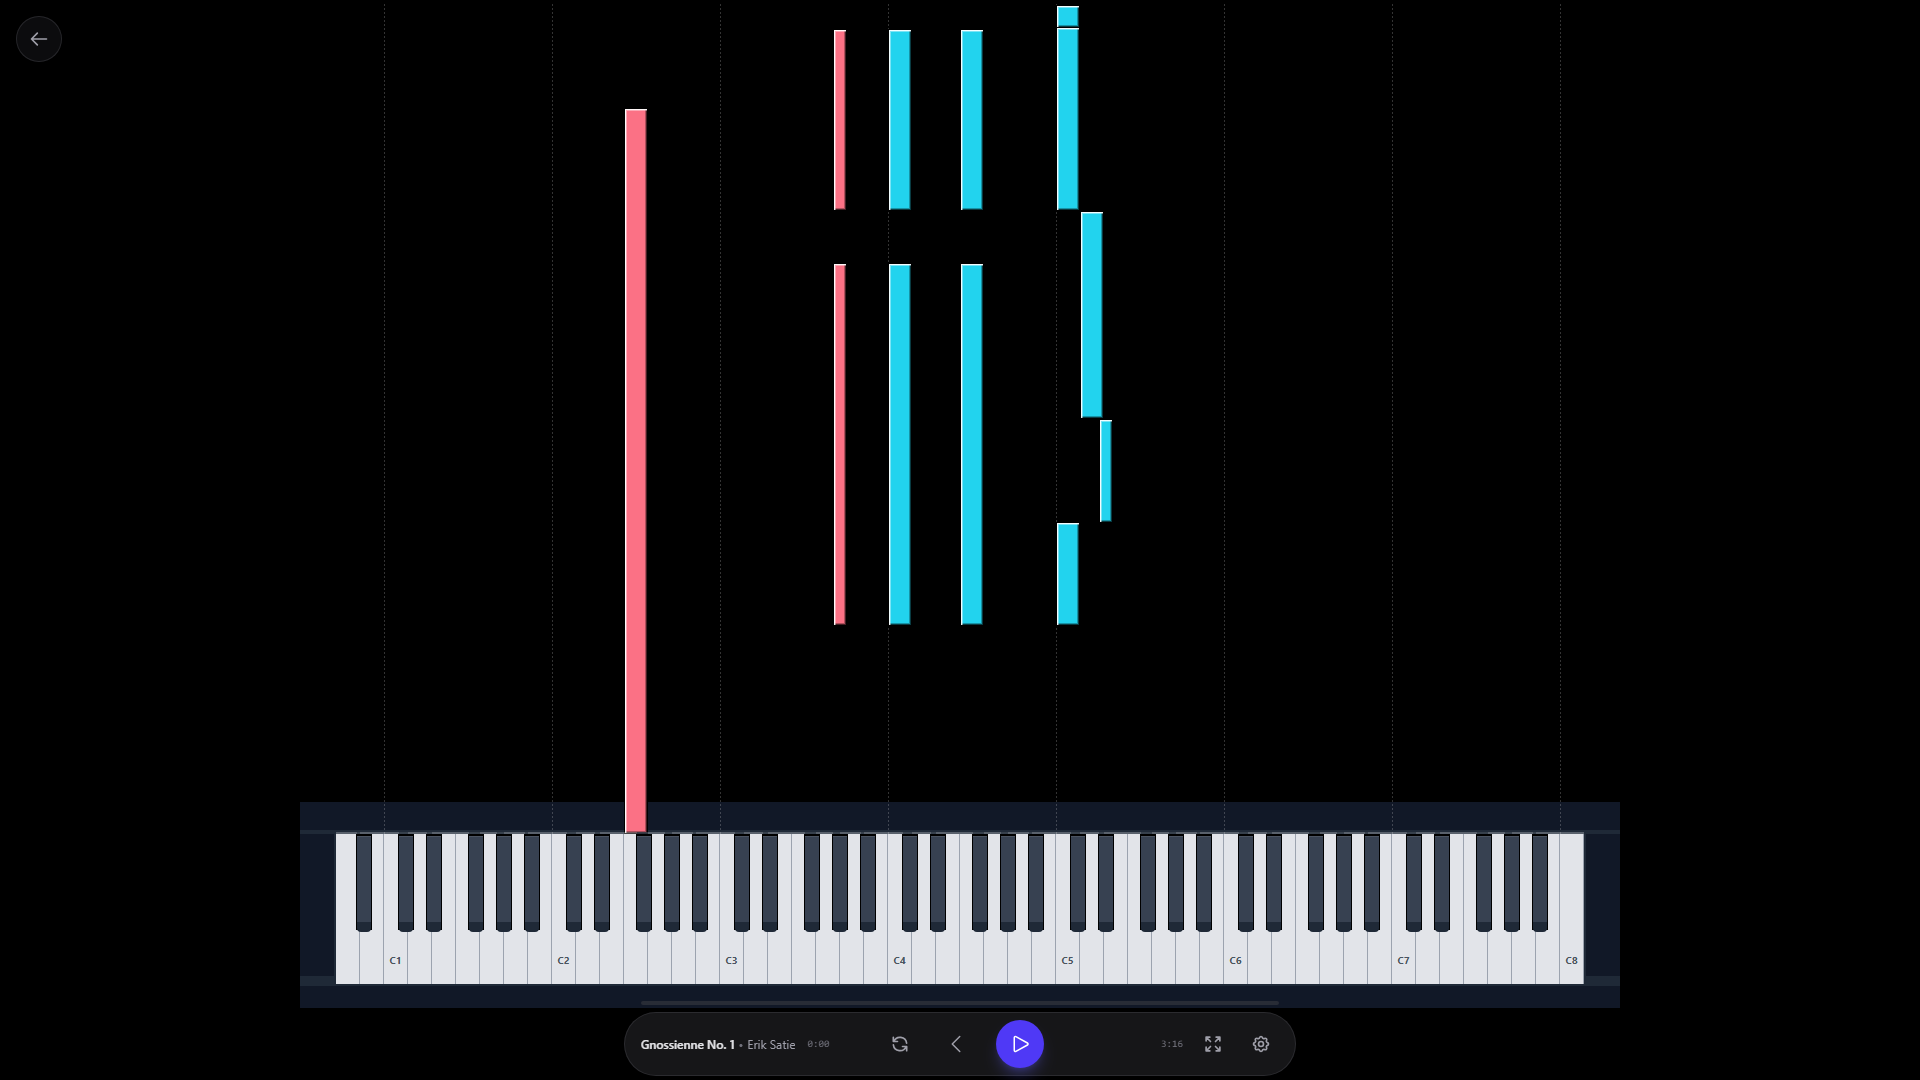
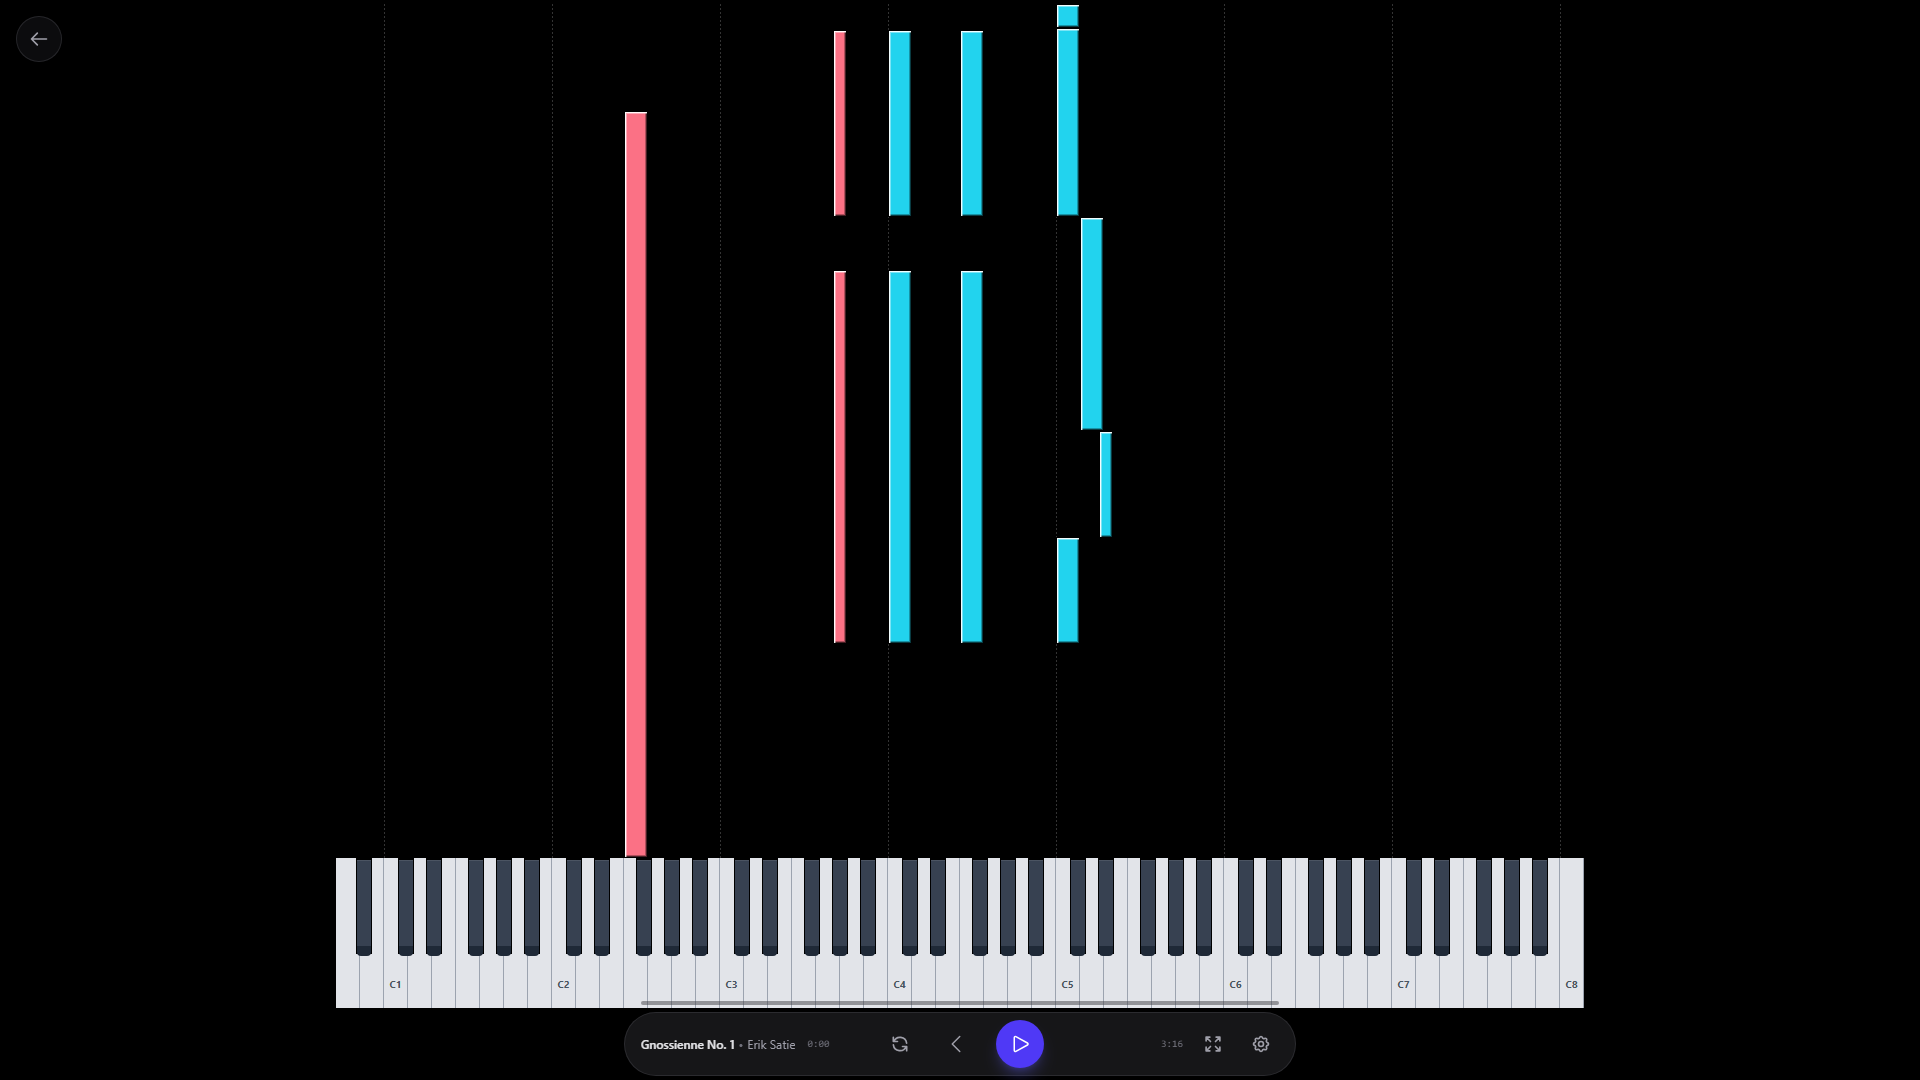
feat(ui): simplify piano layout for mobile optimization (#69)
- Remove decorative piano case elements (nameboard, cheek blocks, key slip)
- Delete unused NameboardReflections component
- Adjust waterfall container to align with simplified keyboard
- Update screenshots to reflect the cleaner, space-optimized UI

diff --git a/src/components/piano/Keyboard.tsx b/src/components/piano/Keyboard.tsx
@@ -1,7 +1,6 @@
 import { useMemo } from "react";
 import { Key } from "./Key";
 import { getKeyPosition, getTotalKeyboardWidth, getKeyCuts } from "./geometry";
-import { NameboardReflections } from "./NameboardReflections";
 
 interface KeyboardKey {
     note: string;
@@ -55,34 +54,13 @@ export function Keyboard({ keys: activeKeys }: KeyboardProps) {
     };
 
     const totalKeysWidth = getTotalKeyboardWidth();
-    const totalPianoWidth = 36 + totalKeysWidth + 36;
+    // Case removed: totalPianoWidth is just the keys width
+    // const totalPianoWidth = 36 + totalKeysWidth + 36; 
 
     return (
-        <div className="flex flex-col items-center bg-black select-none">
-
-            {/* 1. TOP: Nameboard & Logo (z-30) */}
-            <div 
-                className="h-8 bg-[var(--color-pal-1)] border-b-4 border-[var(--color-pal-2)] relative flex flex-row items-center justify-center z-30 overflow-hidden"
-                style={{ width: `${totalPianoWidth}px` }}
-            >
-                <div className="w-[36px] h-full flex-shrink-0 bg-[var(--color-pal-1)]" />
-                {/* Reflections placeholder (removed from here) */}
-                <div style={{ width: `${totalKeysWidth}px` }} className="relative h-full flex-shrink-0" />
-                <div className="w-[36px] h-full flex-shrink-0 bg-[var(--color-pal-1)]" />
-            </div>
-
-            {/* Global Reflection Layer (z-60) - Renders ON TOP of Waterfall and Nameboard */}
-            <div className="absolute top-0 w-full flex justify-center z-60 pointer-events-none" style={{ height: '32px' }}>
-                 <div style={{ width: `${totalKeysWidth}px` }} className="relative h-full">
-                    <NameboardReflections keysData={keysData} activeKeys={activeKeys} />
-                 </div>
-            </div>
-
-            {/* 2. MIDDLE: The Action Area */}
+        <div className="flex flex-col items-center select-none">
+            {/* The Action Area - Simplified */}
             <div className="relative z-[20] flex flex-row bg-transparent">
-
-                {/* Left Cheek Block (z-30) */}
-                <div className="w-[36px] h-[154px] bg-[var(--color-pal-1)] border-b-[12px] border-[var(--color-pal-2)] box-border relative z-[30] border-r-2 border-[var(--color-pal-0)]" />
 
                 {/* The Keyboard Container */}
                 <div
@@ -154,17 +132,7 @@ export function Keyboard({ keys: activeKeys }: KeyboardProps) {
                         );
                     })}
                 </div>
-
-                {/* Right Cheek Block (z-30) */}
-                <div className="w-[36px] h-[154px] bg-[var(--color-pal-1)] border-b-[12px] border-[var(--color-pal-2)] box-border relative z-[30] border-l-2 border-[var(--color-pal-0)]" />
-
             </div>
-
-            {/* 3. BOTTOM: Key Slip (z-60) */}
-            <div 
-                className="h-6 bg-[var(--color-pal-1)] border-t-2 border-[var(--color-pal-2)] z-[60] -mt-[4px] relative" 
-                style={{ width: `${totalPianoWidth}px` }}
-            />
 
             <style jsx global>{`
                 .no-scrollbar::-webkit-scrollbar { display: none; }

diff --git a/src/app/page.tsx b/src/app/page.tsx
@@ -175,7 +175,7 @@ function PianoLesson({ song, allSongs, onSongChange, onExit }: PianoLessonProps)
                 <div 
                   ref={waterfallContainerRef}
                   data-testid="waterfall-container"
-                  className="absolute top-0 bottom-[174px] left-[36px] right-[36px] z-40 pointer-events-none"
+                  className="absolute top-0 bottom-[150px] left-0 right-0 z-40 pointer-events-none"
                 >
                     <Waterfall
                         midi={audio.midi}
